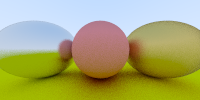
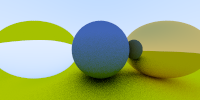
Chapter 9: Dielectrics

diff --git a/Raytracing/main.cpp b/Raytracing/main.cpp
@@ -11,6 +11,7 @@
 #include "camera.h"
 #include "lambertian.h"
 #include "metal.h"
+#include "dielectric.h"
 
 
 const unsigned int width = 200;
@@ -46,10 +47,10 @@ int main()
 {
 	const unsigned int num_spheres = 4;
 	hitable* list[num_spheres];
-	list[0] = new sphere(vec3( 0.0f,    0.0f, -1.0f),   0.5f, new lambertian(vec3(0.8f, 0.3f, 0.3f)));
+	list[0] = new sphere(vec3( 0.0f,    0.0f, -1.0f),   0.5f, new lambertian(vec3(0.1f, 0.2f, 0.5f)));
 	list[1] = new sphere(vec3( 0.0f, -100.5f, -1.0f), 100.0f, new lambertian(vec3(0.8f, 0.8f, 0.0f)));
-	list[2] = new sphere(vec3( 1.0f,    0.0f, -1.0f),   0.5f,      new metal(vec3(0.8f, 0.6f, 0.2f), 1.0f));
-	list[3] = new sphere(vec3(-1.0f,    0.0f, -1.0f),   0.5f,      new metal(vec3(0.8f, 0.8f, 0.8f), 0.3f));
+	list[2] = new sphere(vec3( 1.0f,    0.0f, -1.0f),   0.5f,      new metal(vec3(0.8f, 0.6f, 0.2f)));
+	list[3] = new sphere(vec3(-1.0f,    0.0f, -1.0f),   0.5f, new dielectric(1.5f));
 
 	hitable* world = new hitable_list(list, num_spheres);
 	camera cam;

diff --git a/Raytracing/dielectric.h b/Raytracing/dielectric.h
@@ -1,0 +1,43 @@
+#pragma once
+
+#include "material.h"
+
+class dielectric : public material
+{
+private:
+	float ref_idx;
+
+public:
+	dielectric(float ri) : ref_idx(ri) {}
+
+	virtual bool scatter(const ray& r_in, const hit_record& rec, vec3& attenuation, ray& scattered) const
+	{
+		vec3 outward_normal;
+		vec3 reflected = reflect(r_in.direction(), rec.normal);
+		float ni_over_nt;
+		attenuation = vec3(1.0f, 1.0f, 1.0f);
+		vec3 refracted;
+
+		if (dot(r_in.direction(), rec.normal) > 0)
+		{
+			outward_normal = -rec.normal;
+			ni_over_nt = ref_idx;
+		}
+		else
+		{
+			outward_normal = rec.normal;
+			ni_over_nt = 1.0f / ref_idx;
+		}
+
+		if (refract(r_in.direction(), outward_normal, ni_over_nt, refracted))
+		{
+			scattered = ray(rec.p, refracted);
+		}
+		else
+		{
+			scattered = ray(rec.p, refracted);
+			return false;
+		}
+		return true;
+	}
+};

diff --git a/Raytracing/material.h b/Raytracing/material.h
@@ -13,6 +13,24 @@ vec3 random_in_unit_sphere()
 	return p;
 }
 
+vec3 reflect(const vec3& v, const vec3& n)
+{
+	return v - 2.0f * dot(v, n) * n;
+}
+
+bool refract(const vec3& v, const vec3& n, float ni_over_nt, vec3& refracted)
+{
+	vec3 uv = unit_vector(v);
+	float dt = dot(uv, n);
+	float discriminant = 1.0f - ni_over_nt * ni_over_nt * (1.0f - dt * dt);
+	if (discriminant > 0)
+	{
+		refracted = ni_over_nt * (uv - n * dt) - n * sqrt(discriminant);
+		return true;
+	}
+	return false;
+}
+
 class material
 {
 public:

diff --git a/Raytracing/metal.h b/Raytracing/metal.h
@@ -2,11 +2,6 @@
 
 #include "material.h"
 
-vec3 reflect(const vec3& v, const vec3& n)
-{
-	return v - 2.0f * dot(v, n) * n;
-}
-
 class metal : public material
 {
 private:
@@ -14,7 +9,7 @@ private:
 	float fuzz;
 
 public:
-	metal(const vec3& a, float f) : albedo(a)
+	metal(const vec3& a, float f=0.0f) : albedo(a)
 	{
 		if (f < 1.0f)
 			fuzz = f;
